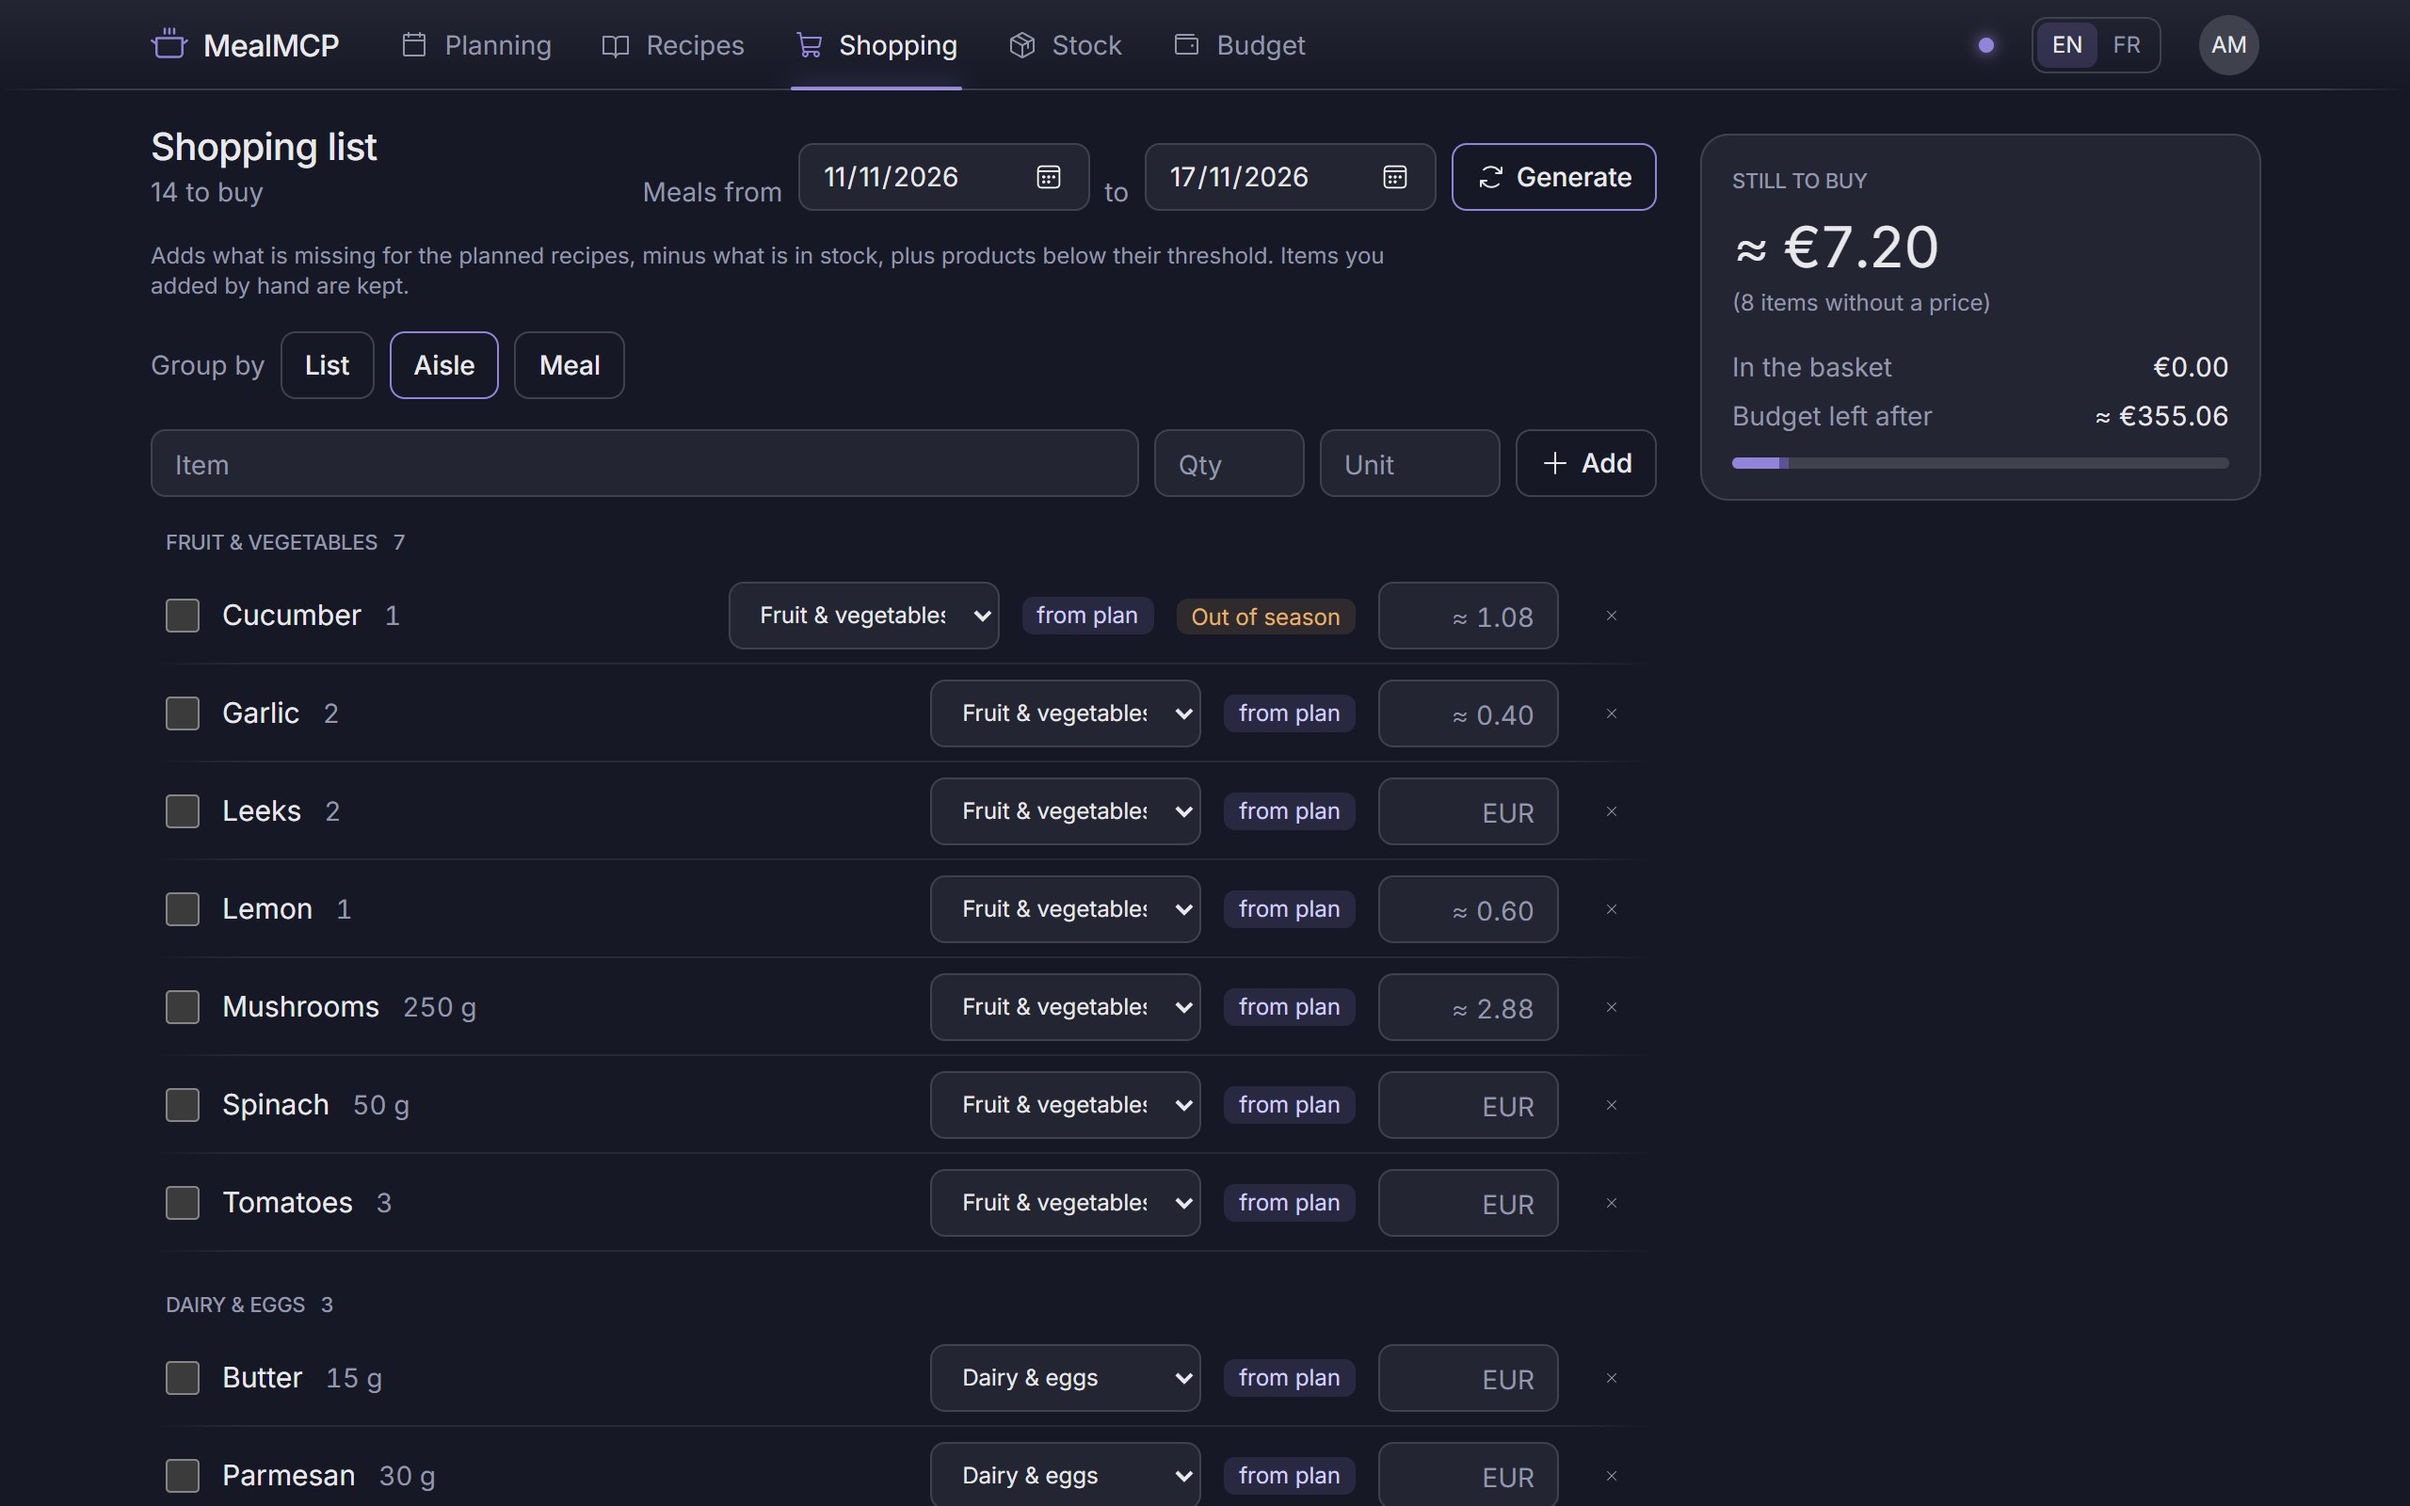
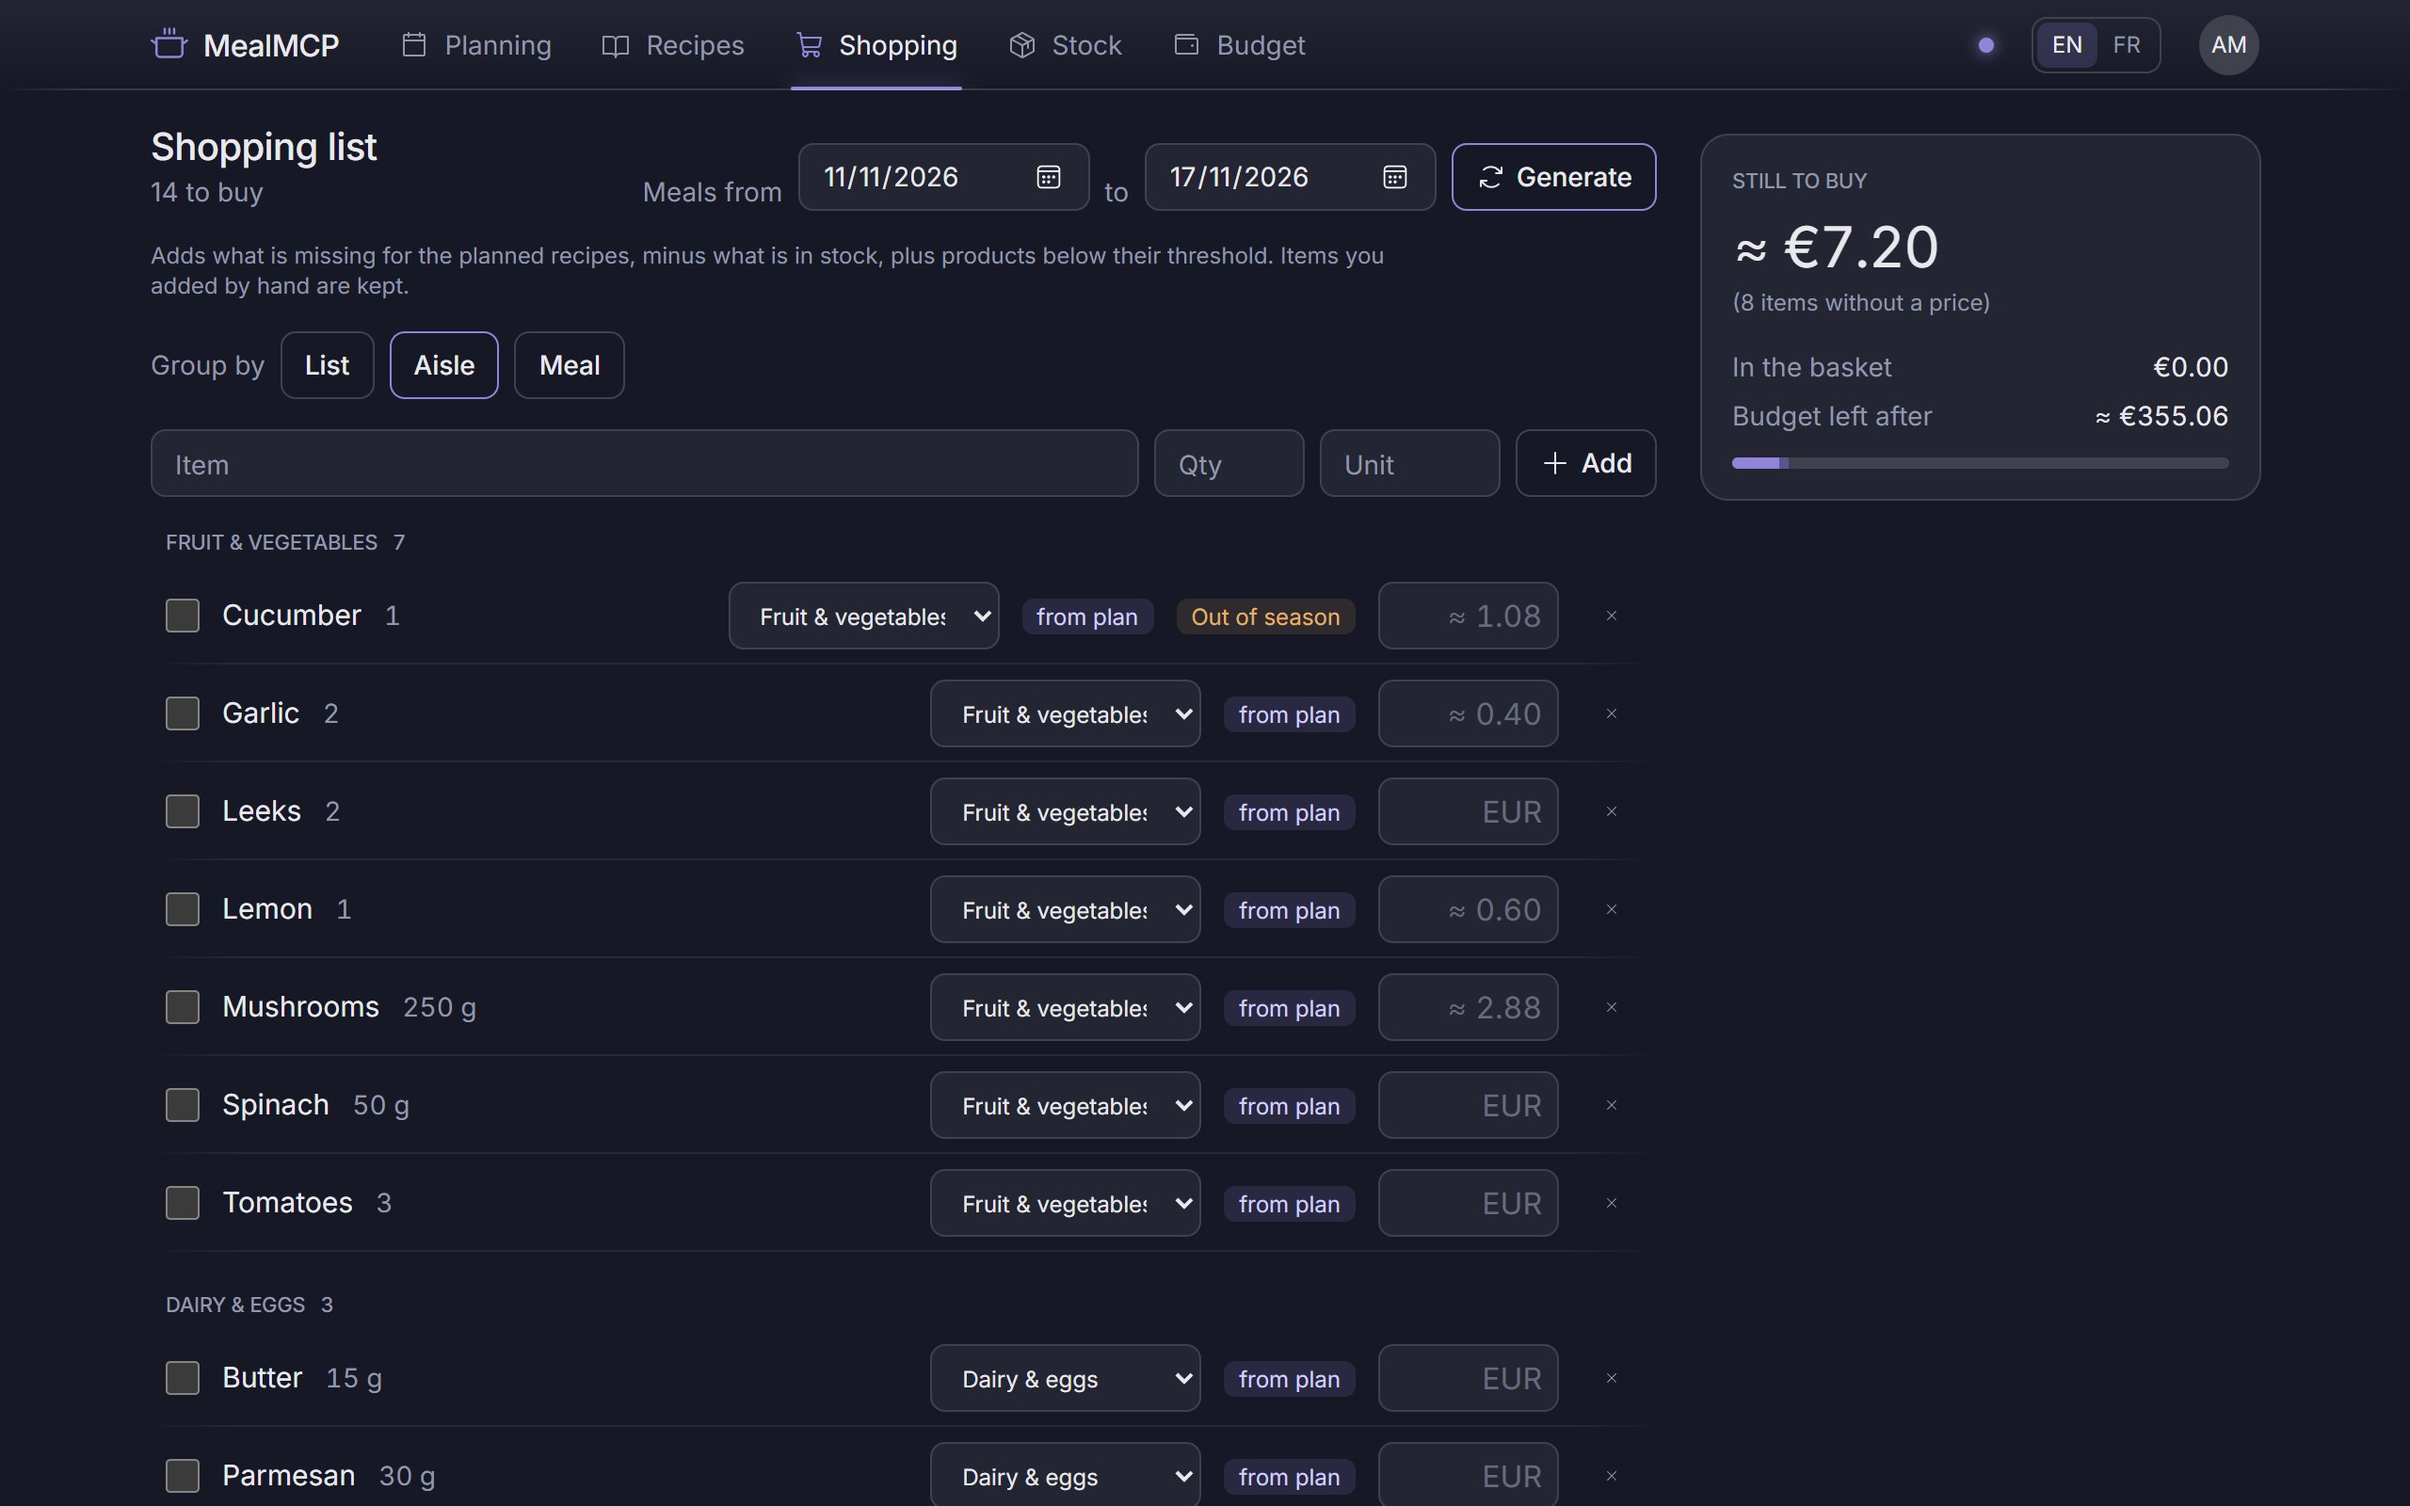
Release v0.4.0: nutrition module, phone shopping list, refreshed screenshots

diff --git a/web/src/pages/Shopping.tsx b/web/src/pages/Shopping.tsx
@@ -186,7 +186,7 @@ export function Shopping() {
                   aria-label={t('shopping.price', { name: item.name })}
                   onBlur={(e) => savePrice(item, e.target.value)}
                   onKeyDown={(e) => e.key === 'Enter' && e.currentTarget.blur()}
-                  className="h-8 w-14 shrink-0 border-transparent bg-transparent px-1 text-right text-sm text-muted tabular-nums placeholder:text-muted/60 focus:w-20 focus:border-line focus:bg-surface focus:text-ink sm:w-24 sm:border-line sm:bg-surface sm:px-2 sm:text-base sm:text-ink sm:focus:w-24"
+                  className="h-8 w-[4.5rem] shrink-0 border-transparent bg-transparent px-1 text-right text-sm text-muted tabular-nums placeholder:text-muted/60 focus:w-20 focus:border-line focus:bg-surface focus:text-ink sm:w-24 sm:border-line sm:bg-surface sm:px-2 sm:text-base sm:text-ink sm:focus:w-24"
                 />
                 <Button variant="ghost" className="size-8 shrink-0 px-0" aria-label={t('stock.remove', { name: item.name })} onClick={() => run(() => api.del(`/shopping/${item.id}`))}>
                   <X size={14} />
